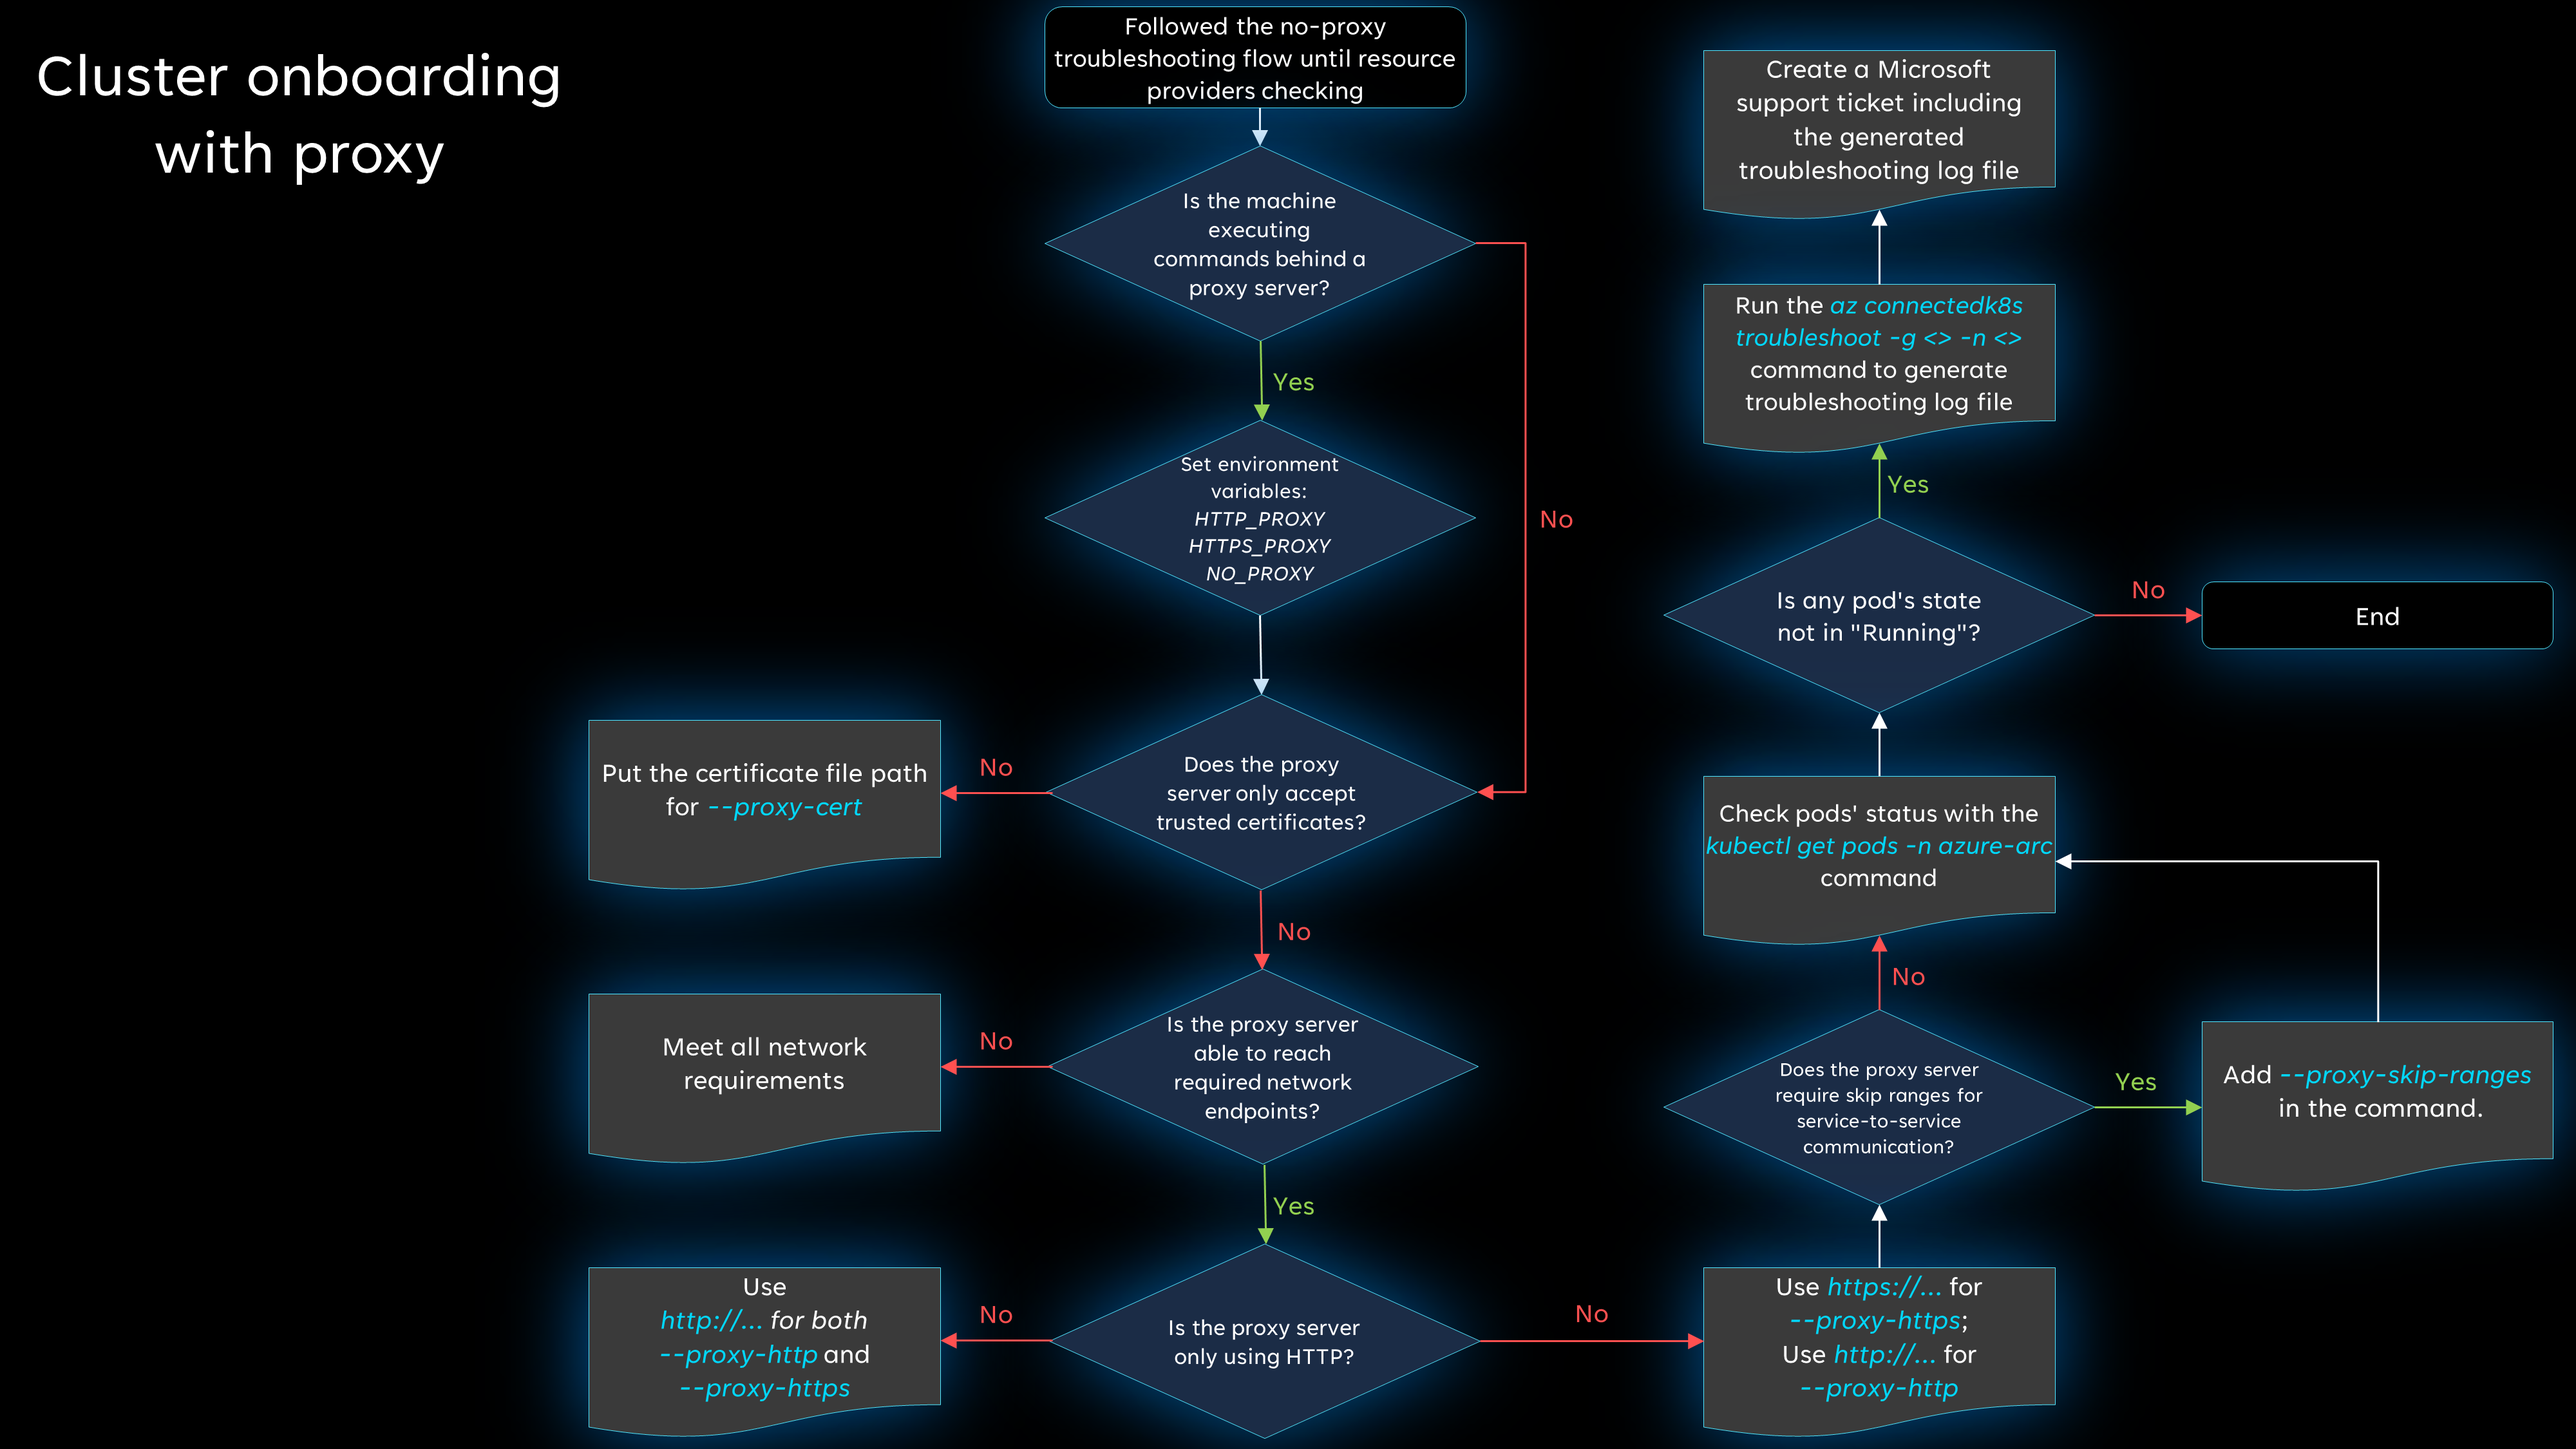
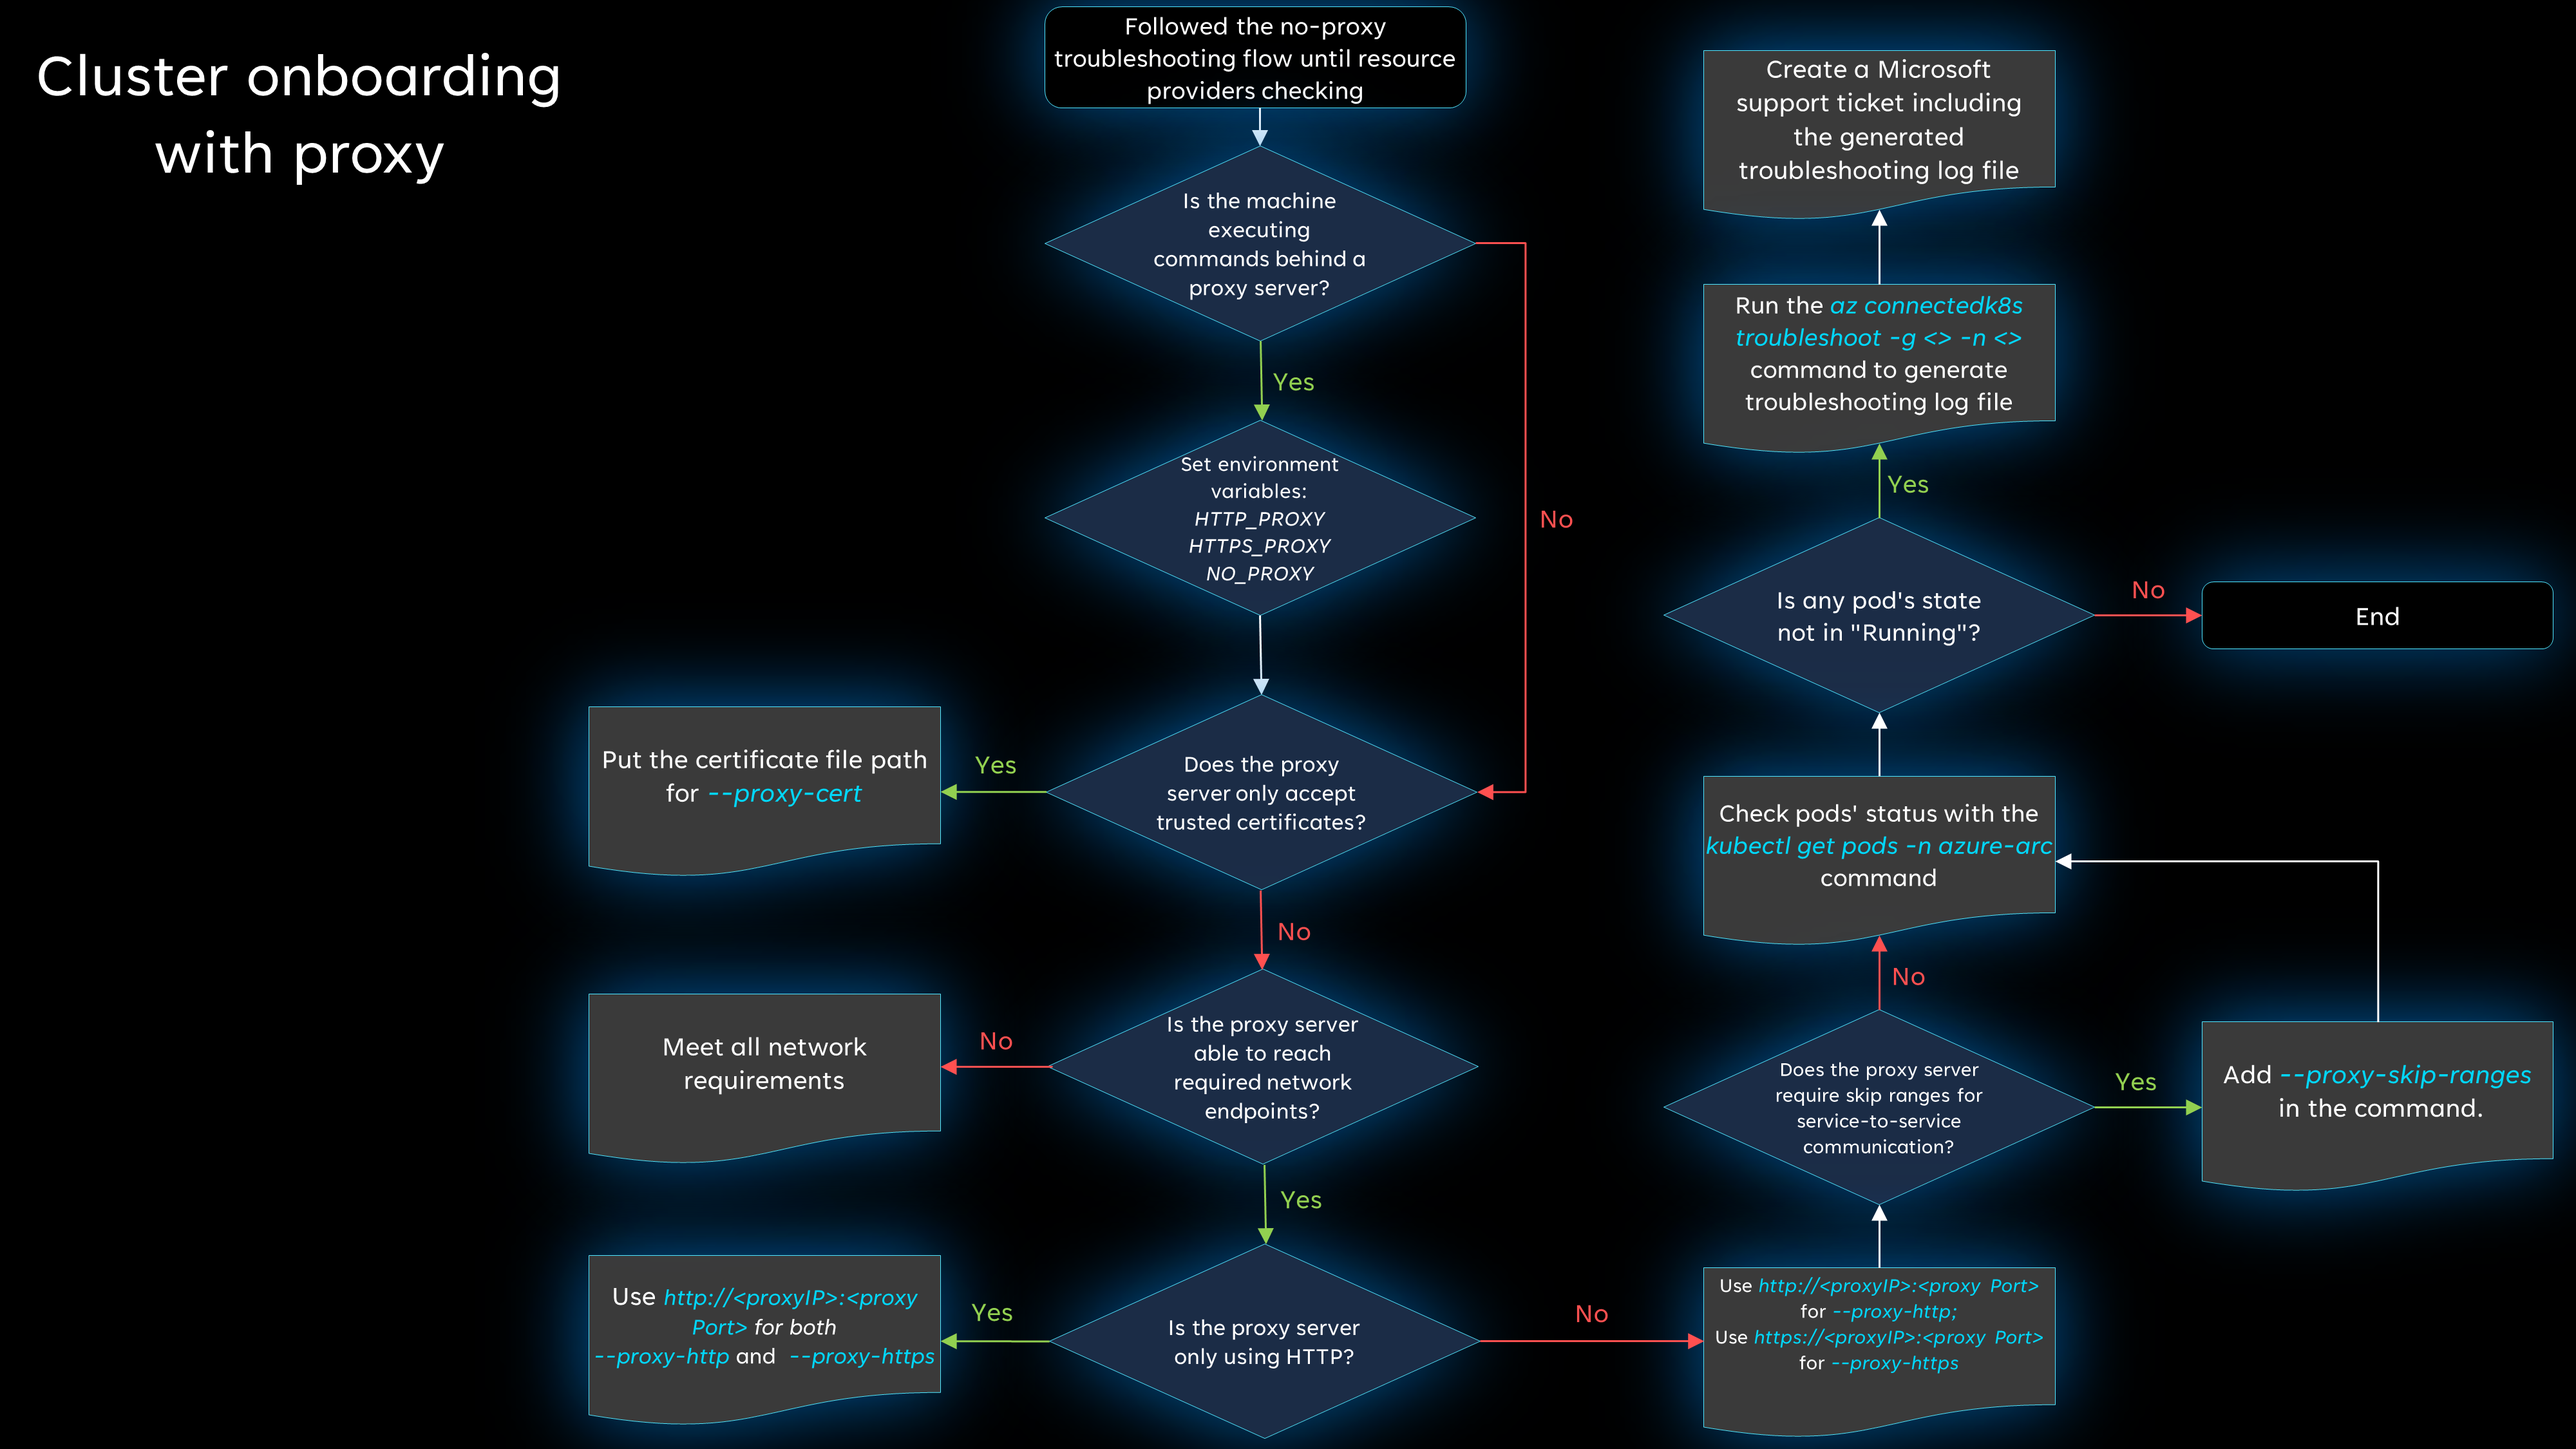
remove extra image, small fixes

diff --git a/articles/azure-arc/kubernetes/diagnose-connection-issues.md b/articles/azure-arc/kubernetes/diagnose-connection-issues.md
@@ -1,6 +1,6 @@
 ---
 title: "Diagnose connection issues for Azure Arc-enabled Kubernetes clusters"
-ms.date: 11/10/2022
+ms.date: 11/22/2022
 ms.topic: how-to
 description: "Learn how to resolve common issues when connecting Kubernetes clusters to Azure Arc."
 
@@ -76,15 +76,11 @@ When you [create your support request](../../azure-portal/supportability/how-to-
 
 If you are using a proxy server on at least one machine, complete the first five steps of the non-proxy flowchart (through resource provider registration) for basic troubleshooting steps. Then, if you are still encountering issues, review the next flowchart for additional troubleshooting steps. More details about each step are provided below.
 
-:::image type="content" source="media/diagnose-connection-issues/proxy-flowchart-2.png" alt-text="Flowchart showing a visual representation of checking for connection issues when using a proxy." lightbox="media/diagnose-connection-issues/proxy-flowchart-2.png":::
+:::image type="content" source="media/diagnose-connection-issues/proxy-flowchart.png" alt-text="Flowchart showing a visual representation of checking for connection issues when using a proxy." lightbox="media/diagnose-connection-issues/proxy-flowchart.png":::
 
 ### Is the machine executing commands behind a proxy server?
 
-If the machine is executing commands behind a proxy server, you'll need to set any necessary environment variables, [explained below](#set-environment-variables).
-
-### Set environment variables
-
-Be sure you have set all of the necessary environment variables. For more information, see [Connect using an outbound proxy server](quickstart-connect-cluster.md#connect-using-an-outbound-proxy-server).
+If the machine is executing commands behind a proxy server, you'll need to set all of the necessary environment variables. For more information, see [Connect using an outbound proxy server](quickstart-connect-cluster.md#connect-using-an-outbound-proxy-server).
 
 For example:
 
